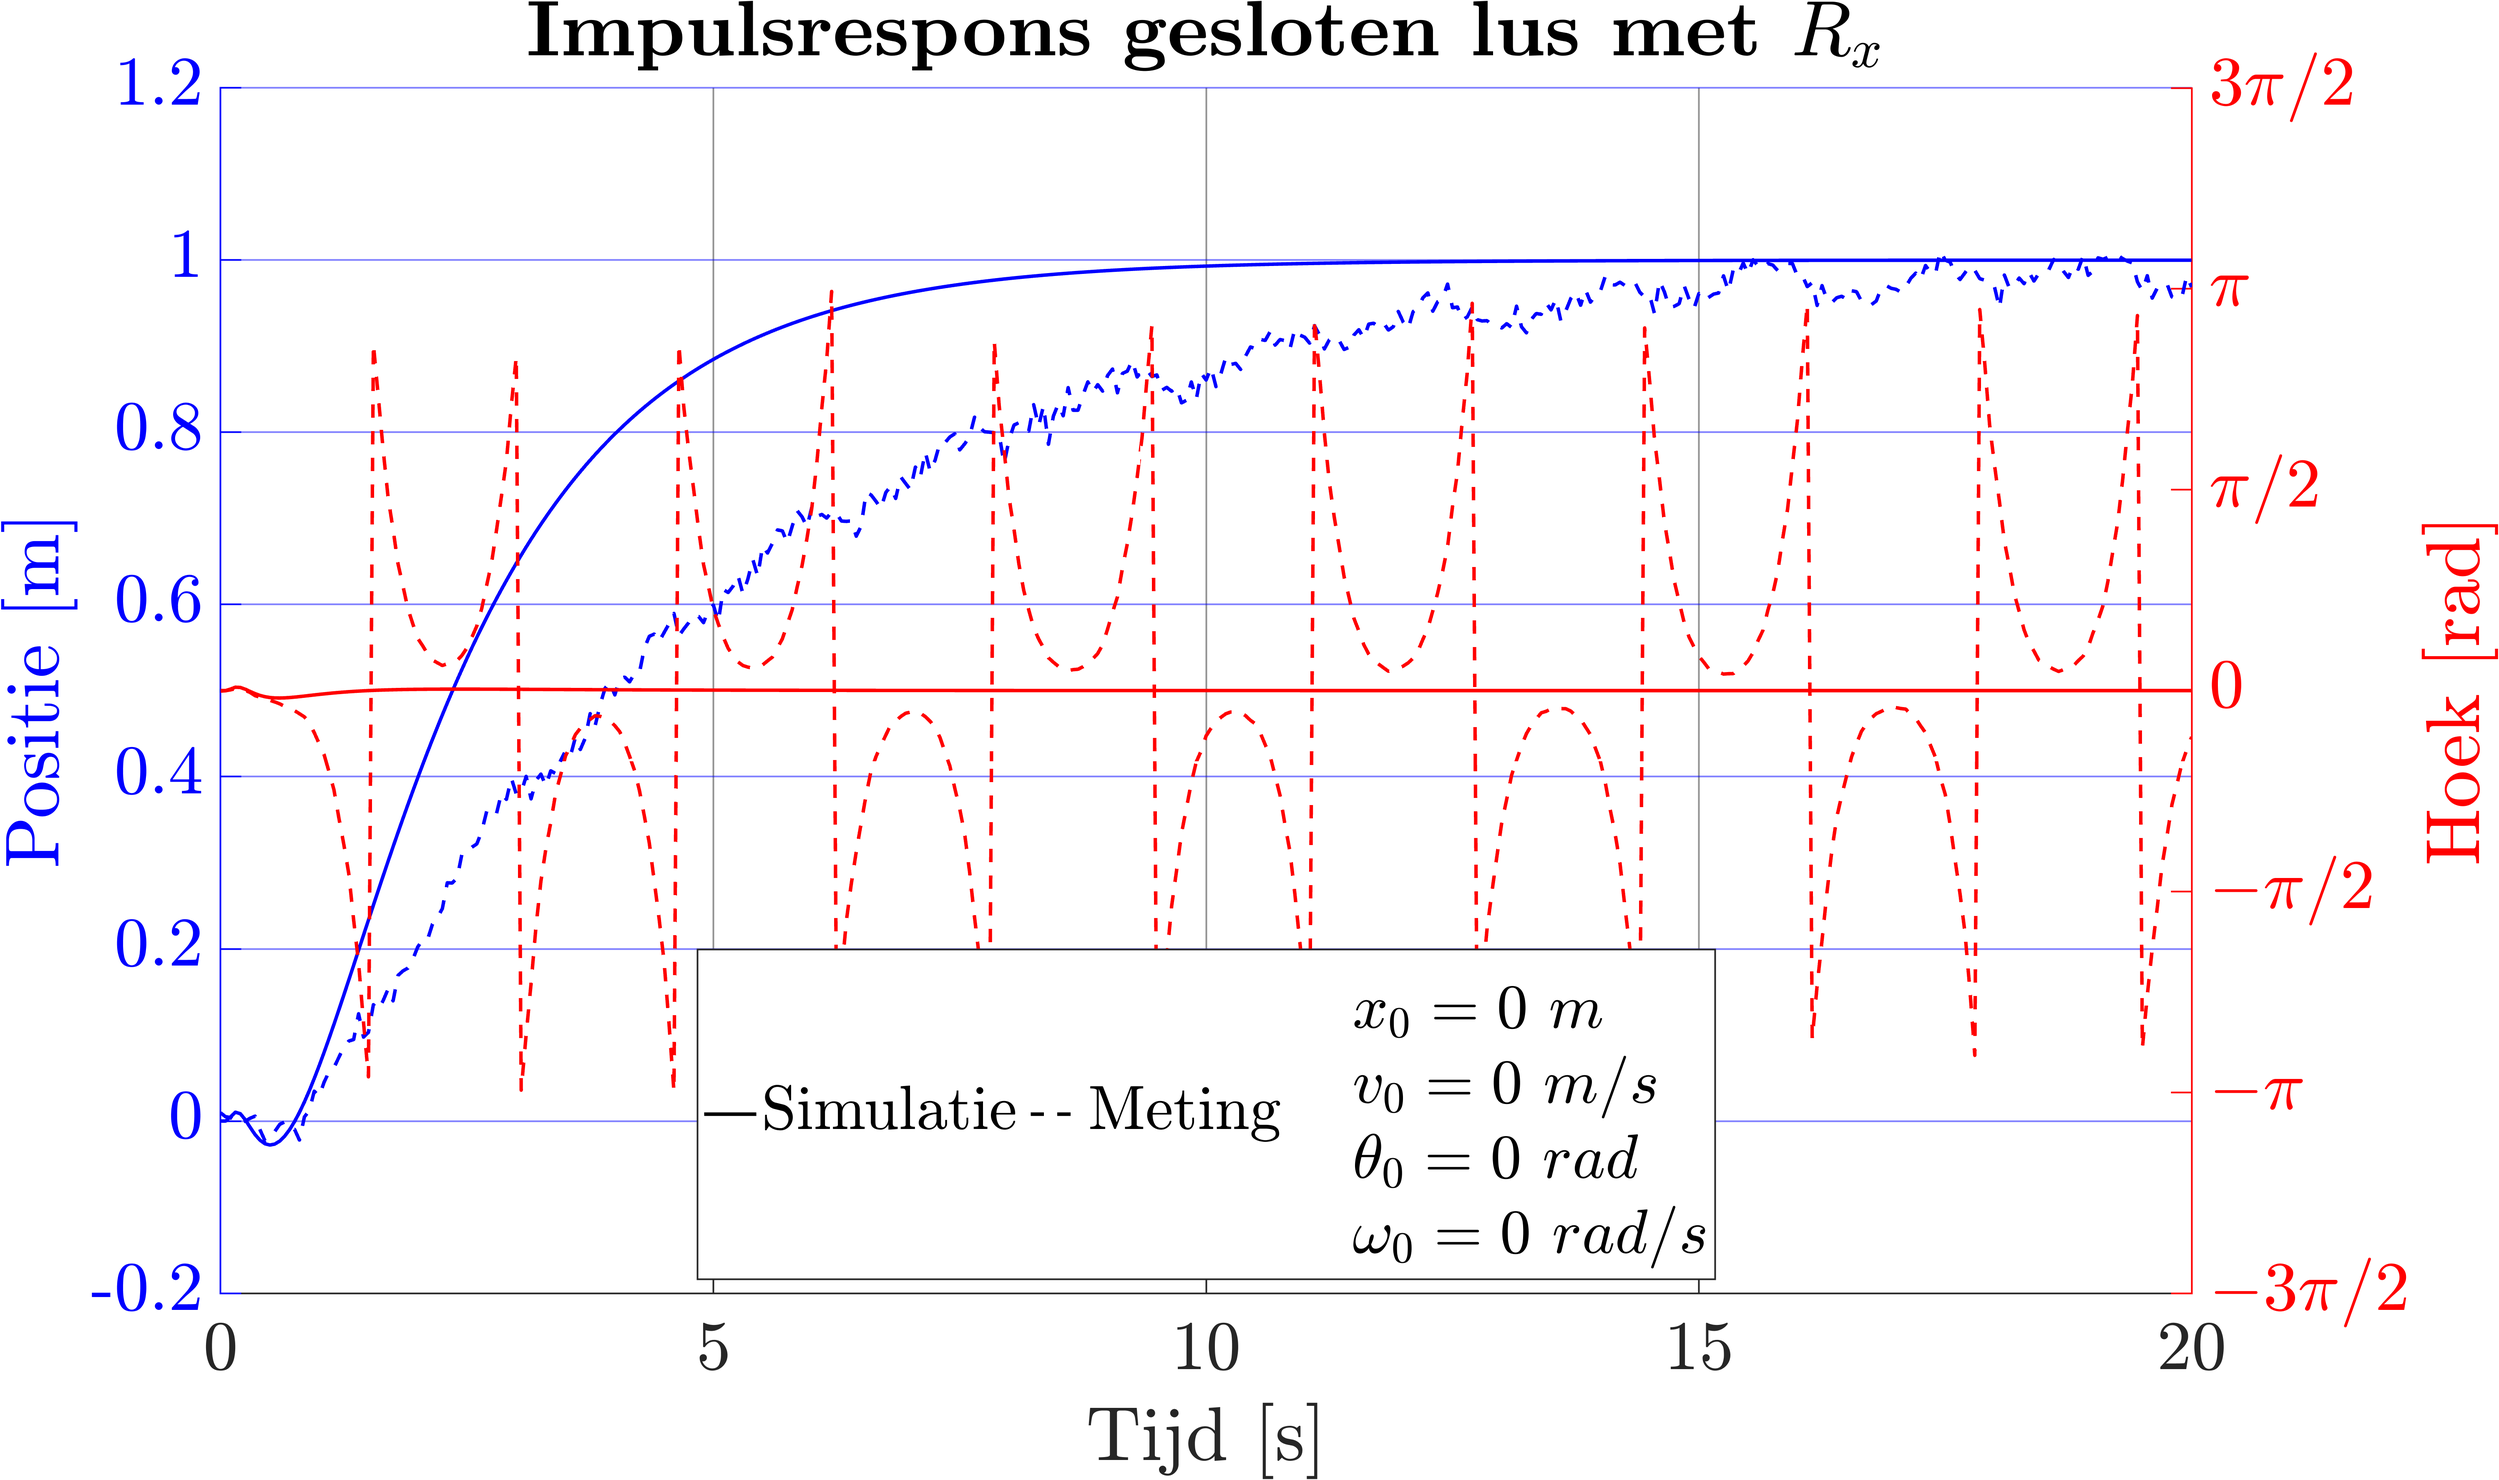
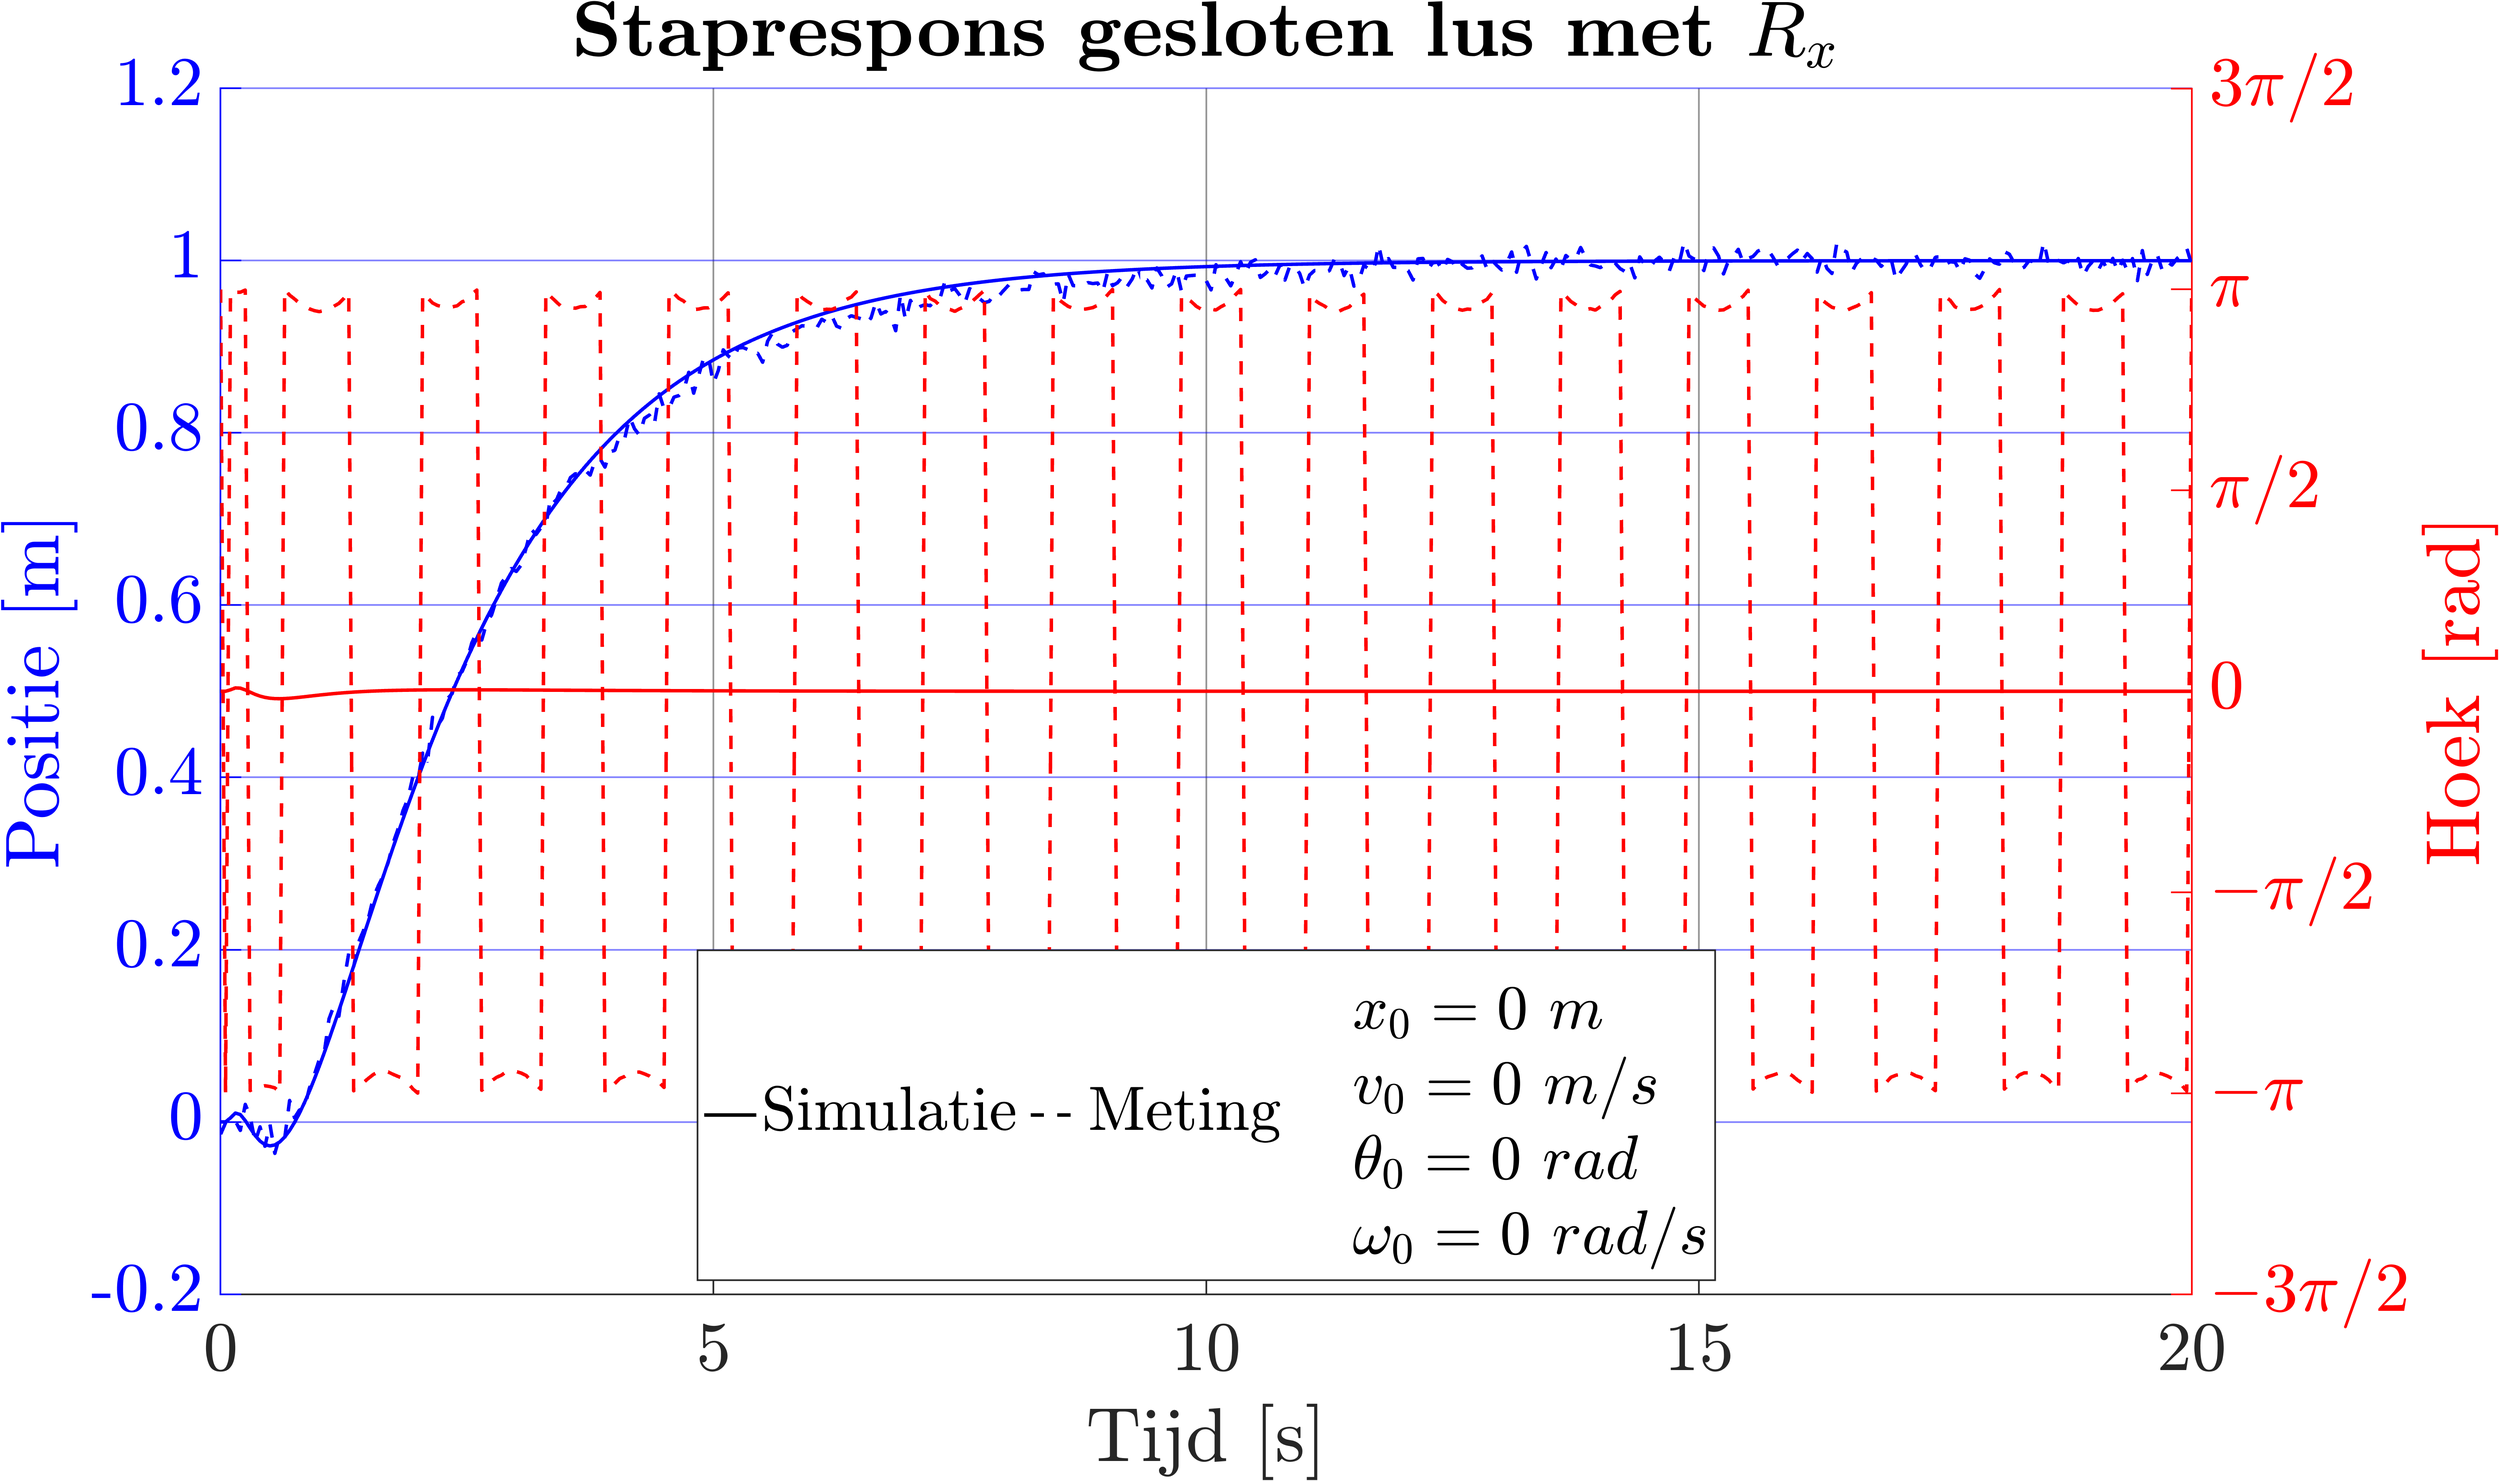
Title Fix

diff --git a/CleanFile.m b/CleanFile.m
@@ -187,7 +187,7 @@ set(gca,'YTickLabel',{'$-2\pi$','$-3\pi$/2','$-\pi$','$-\pi$/2','0','$\pi$/2','$
 ylim([-3*pi/2 3*pi/2])
 ylabel('Hoek [rad]')
 xlabel('Tijd [s]')
-title('\textbf{Impulsrespons gesloten lus met $R_{x}$}','FontSize',45)
+title('\textbf{Staprespons gesloten lus met $R_{x}$}','FontSize',45)
 legend('Simulatie','Meting',newline+"$x_0 = 0\ m$"+newline+"$v_0 = 0\ m/s$"+newline+"$\theta_0 = 0\ rad$"+newline+"$\omega_0 = 0\ rad/s$",'Location','south','Orientation','horizontal')
 %exportgraphics(F,PATH+"/Plots-Video/PID/StapresponsGeslotenLusR1.png",'Resolution',300)
 %% State Observer
